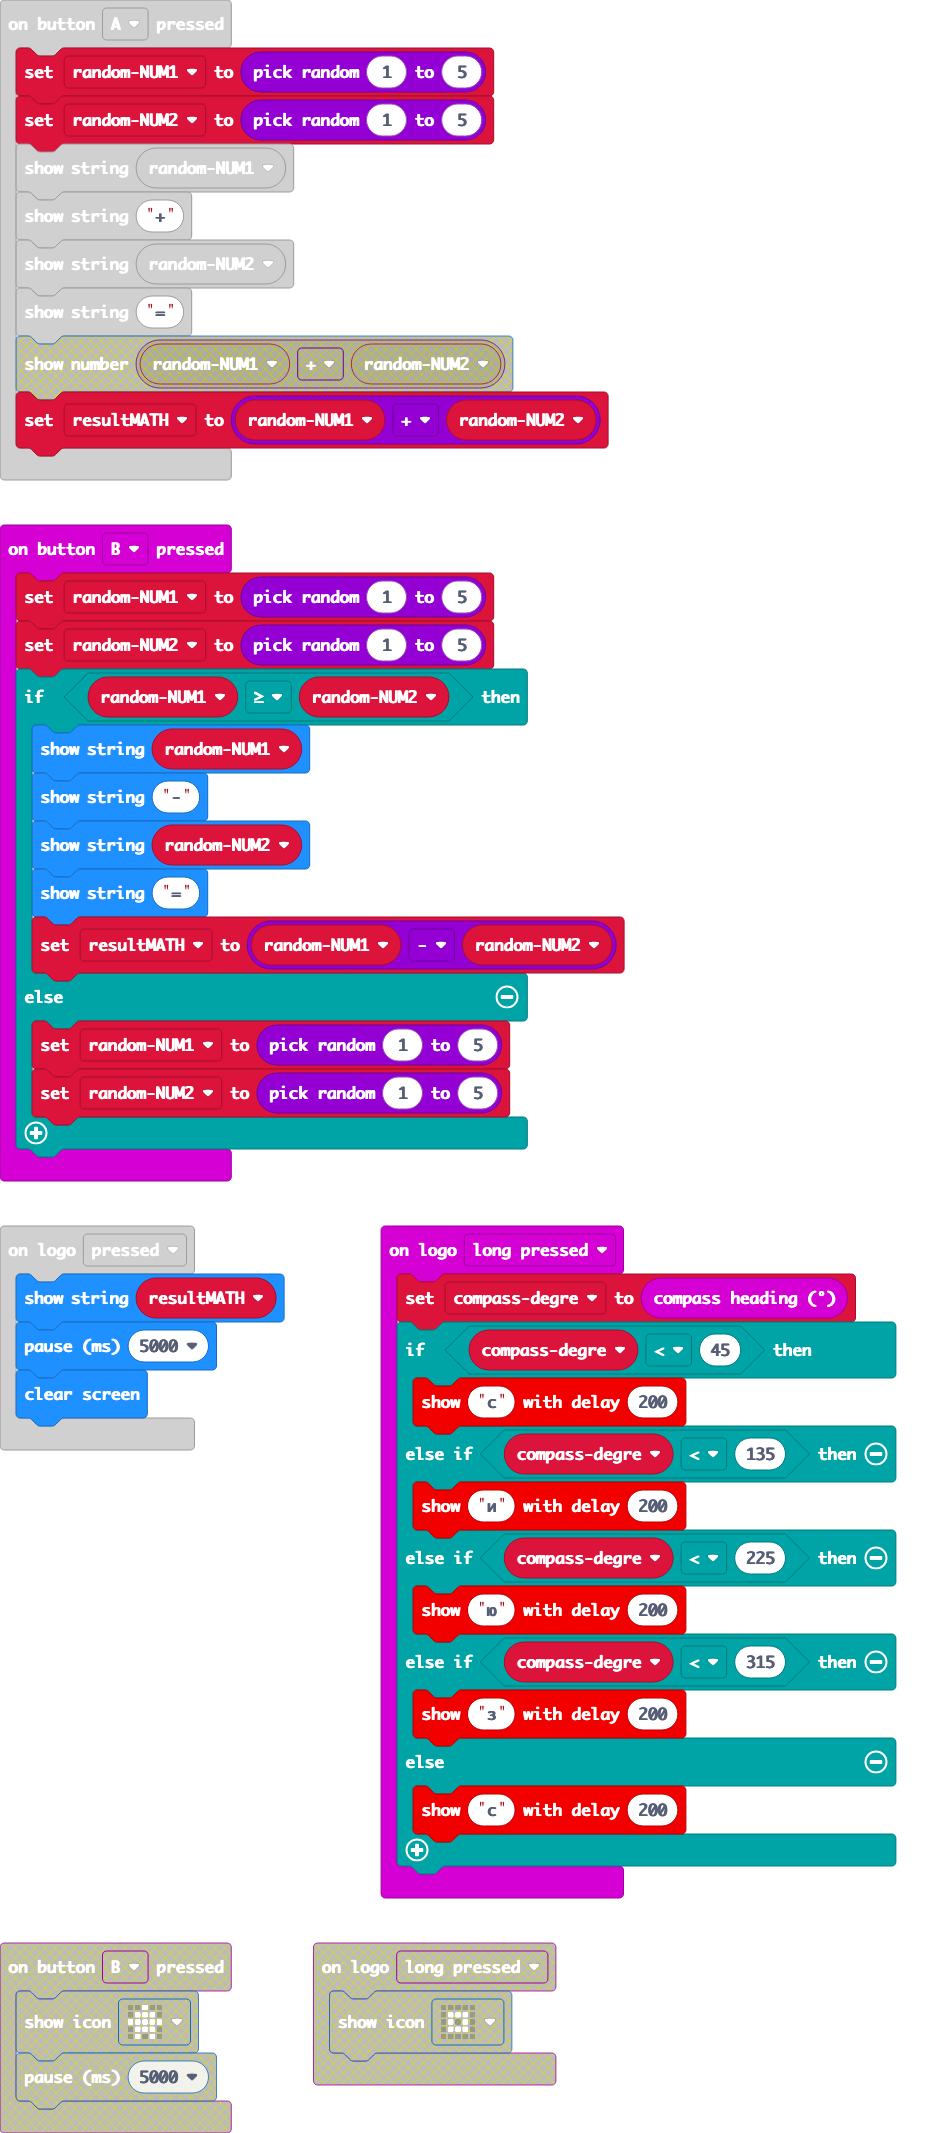
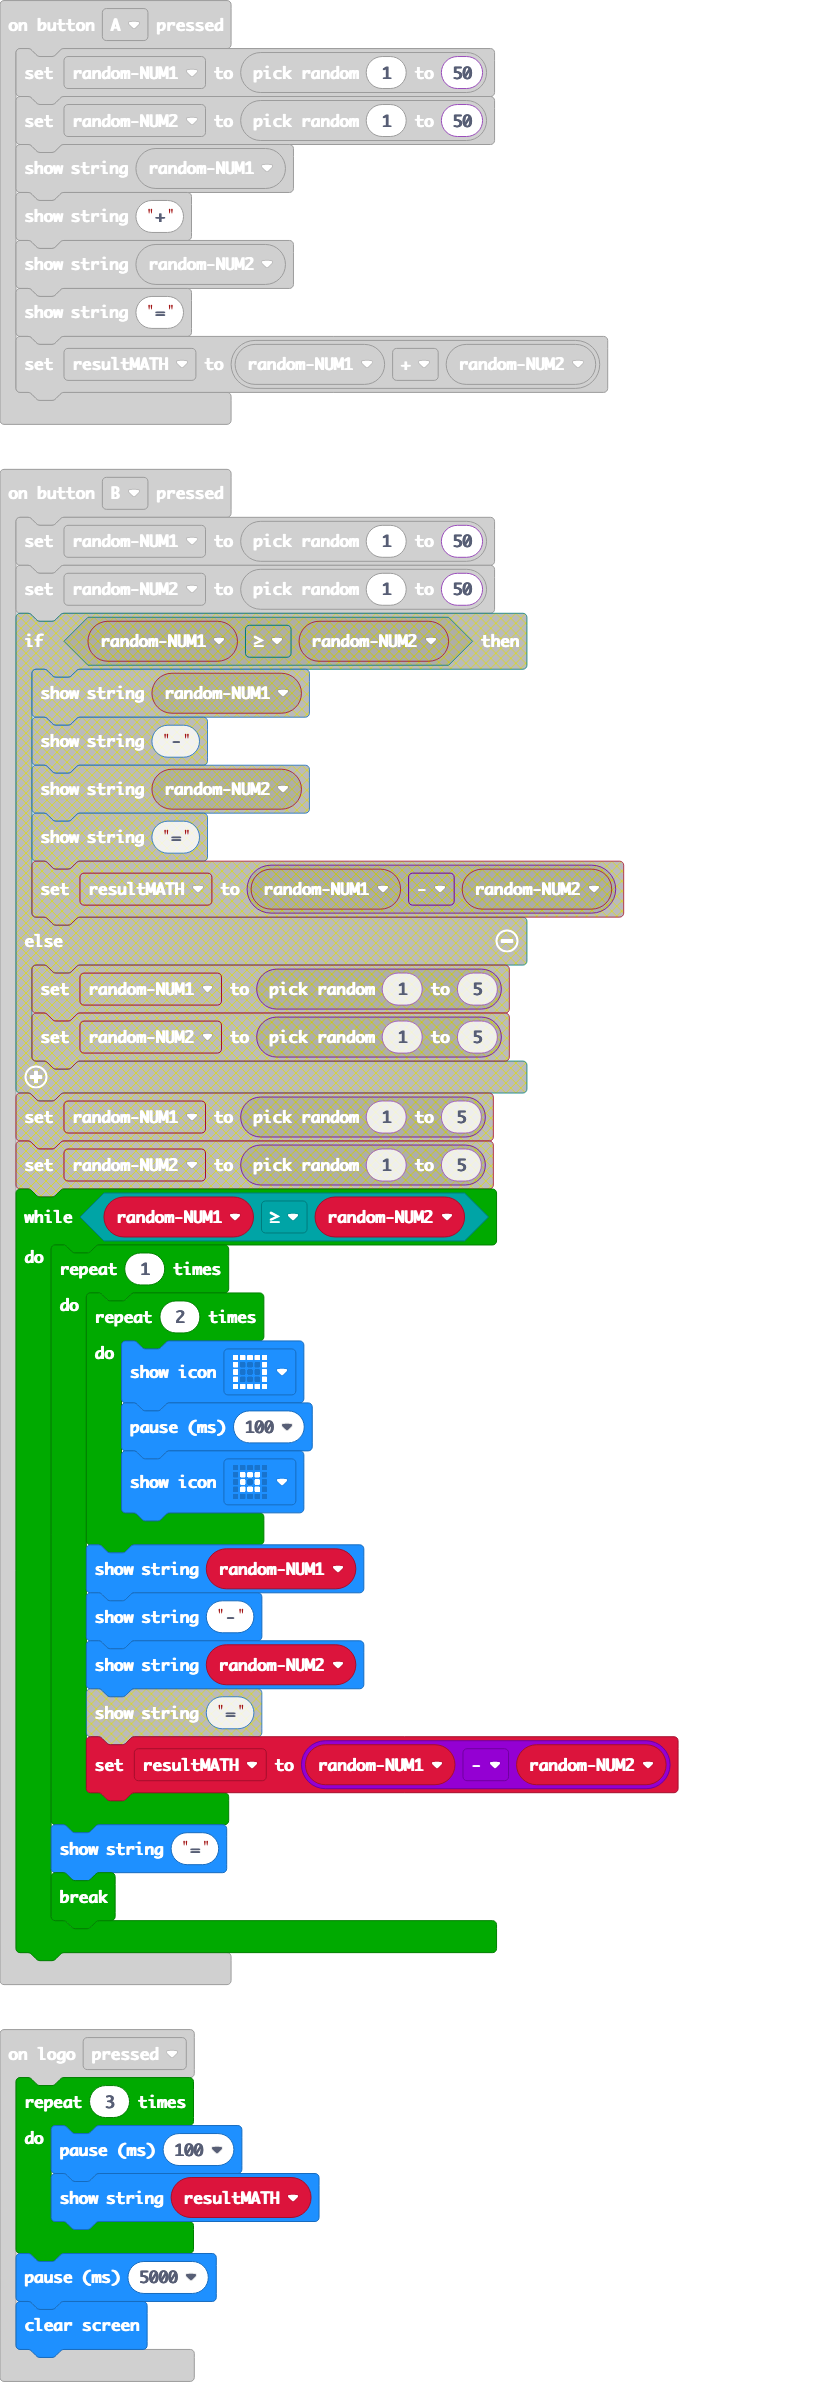
Update main.blocks, main.ts

diff --git a/main.ts b/main.ts
@@ -13,8 +13,8 @@ input.onLogoEvent(TouchButtonEvent.LongPressed, function () {
     }
 })
 input.onButtonPressed(Button.A, function () {
-    randomNUM1 = randint(1, 5)
-    randomNUM2 = randint(1, 5)
+    randomNUM1 = randint(1, 50)
+    randomNUM2 = randint(1, 50)
     basic.showString("" + (randomNUM1))
     basic.showString("+")
     basic.showString("" + (randomNUM2))
@@ -22,21 +22,29 @@ input.onButtonPressed(Button.A, function () {
     resultMATH = randomNUM1 + randomNUM2
 })
 input.onButtonPressed(Button.B, function () {
-    randomNUM1 = randint(1, 5)
-    randomNUM2 = randint(1, 5)
-    if (randomNUM1 >= randomNUM2) {
-        basic.showString("" + (randomNUM1))
-        basic.showString("-")
-        basic.showString("" + (randomNUM2))
+    randomNUM1 = randint(1, 50)
+    randomNUM2 = randint(1, 50)
+    while (randomNUM1 >= randomNUM2) {
+        for (let index = 0; index < 1; index++) {
+            for (let index = 0; index < 2; index++) {
+                basic.showIcon(IconNames.Square)
+                basic.pause(100)
+                basic.showIcon(IconNames.SmallSquare)
+            }
+            basic.showString("" + (randomNUM1))
+            basic.showString("-")
+            basic.showString("" + (randomNUM2))
+            resultMATH = randomNUM1 - randomNUM2
+        }
         basic.showString("=")
-        resultMATH = randomNUM1 - randomNUM2
-    } else {
-        randomNUM1 = randint(1, 5)
-        randomNUM2 = randint(1, 5)
+        break;
     }
 })
 input.onLogoEvent(TouchButtonEvent.Pressed, function () {
-    basic.showString("" + (resultMATH))
+    for (let index = 0; index < 3; index++) {
+        basic.pause(100)
+        basic.showString("" + (resultMATH))
+    }
     basic.pause(5000)
     basic.clearScreen()
 })
